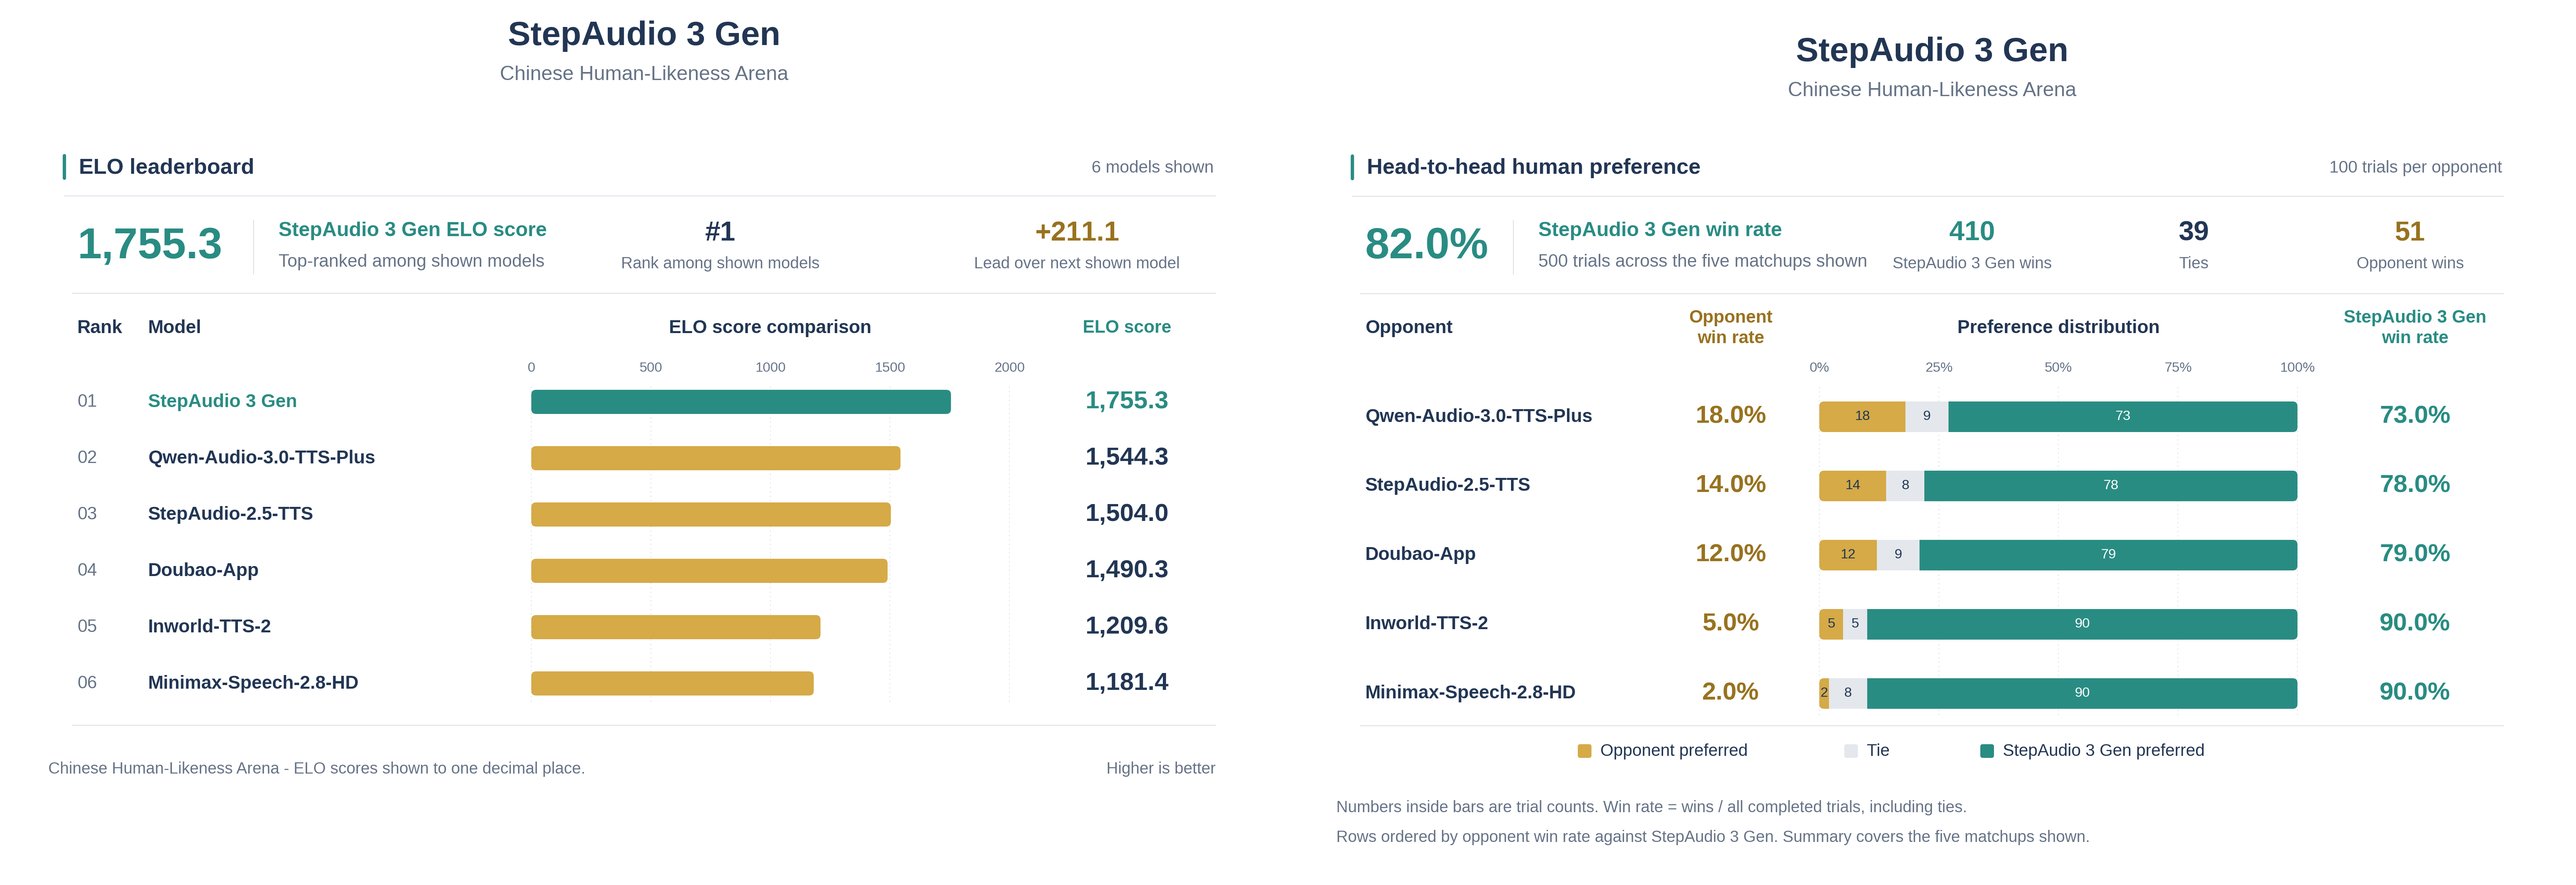
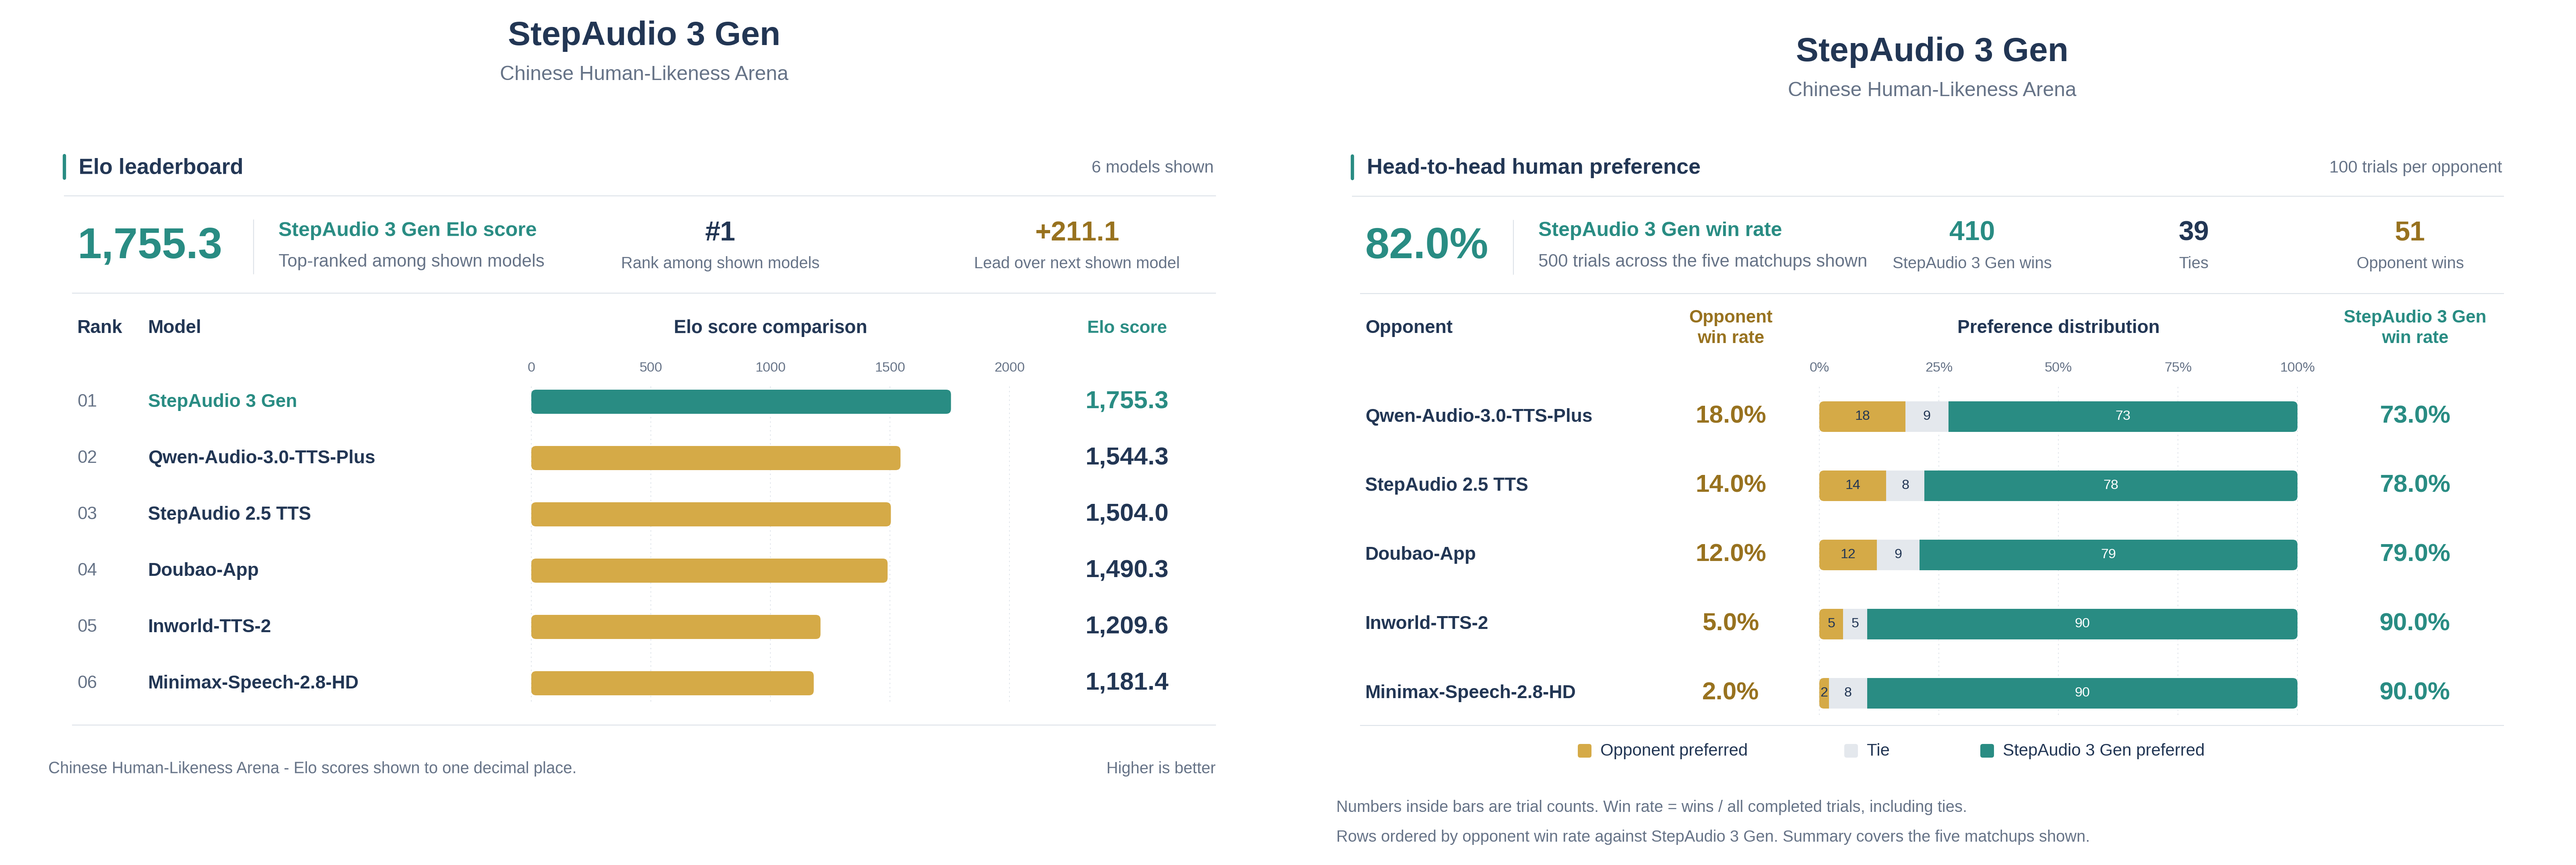
Replace benchmark figures and align reported results

diff --git a/step-audio-3-gen/index.html b/step-audio-3-gen/index.html
@@ -12,7 +12,7 @@
     <link rel="preload" href="./fonts/Roboto-Medium-brand.woff" as="font" type="font/woff" crossorigin />
     <link rel="preload" href="./fonts/MiSans-Light.woff2" as="font" type="font/woff2" crossorigin />
     <link rel="preload" href="./fonts/instrument-sans-latin-wght-normal.woff2" as="font" type="font/woff2" crossorigin />
-    <script src="./product-copy.js?v=20260911-vocal-copy-22"></script>
+    <script src="./product-copy.js?v=20260911-benchmark-23"></script>
   </head>
   <body class="product-page">
     <svg class="vibe-player-icons" width="0" height="0" aria-hidden="true"><defs>
@@ -1027,7 +1027,7 @@
           <header class="benchmark-heading">
             <h2 id="tts-elo-title" data-product-i18n="ttsEloTitle">评测表现</h2>
             <div class="benchmark-analysis">
-              <p data-product-i18n-html="ttsEloComparison">在盲测两两对比评估中，StepAudio 3 Gen 在 TTS 与 Voice Design 两项任务上均取得 SOTA 表现，分别以 1755.33 和 1668.5 的 Elo 分数排名第一，总体胜率达 82.0% 和 71.4%，展现出在语音真人感与音色设计能力上的一致领先优势。</p>
+              <p data-product-i18n-html="ttsEloComparison">在盲测两两对比评估中，StepAudio 3 Gen 在 TTS 与 Voice Design 两项任务上，分别以 1755.3 和 1668.5 的 Elo 分数位列图示参评模型第一，图示对阵的总体胜率分别为 82.0% 和 75.5%，展现出在语音真人感与音色设计方面的领先表现。</p>
             </div>
           </header>
 <div class="benchmark-paper-figures">
@@ -1035,13 +1035,13 @@
               <figcaption class="benchmark-paper-caption">
                 <h3 id="paper-tts-caption" data-product-i18n="bmkTts">Human-like TTS</h3>
               </figcaption>
-              <a href="./assets/tts-elo-chinese.png" target="_blank" rel="noopener" aria-labelledby="paper-tts-caption"><img src="./assets/tts-elo-chinese.png?v=20260910-combined-1" width="6400" height="2200" loading="lazy" decoding="async" alt="Chinese Human-Likeness Arena: StepAudio 3 Gen Elo 1755.3, ranked first among the six models shown, 211.1 points ahead of the next shown model. Head-to-head results across the five opponents shown: 410 wins, 39 ties and 51 losses over 500 trials, for an 82.0% win rate including ties in the denominator. StepAudio 3 Gen win rates: Qwen 73%, StepAudio 2.5 TTS 78%, Doubao 79%, Inworld 90%, MiniMax 90%." /></a>
+              <a href="./assets/tts-elo-chinese.png?v=20260911-benchmark-23" target="_blank" rel="noopener" aria-labelledby="paper-tts-caption"><img src="./assets/tts-elo-chinese.png?v=20260911-benchmark-23" width="6400" height="2151" loading="lazy" decoding="async" alt="Chinese Human-Likeness Arena: StepAudio 3 Gen Elo 1755.3, ranked first among the six models shown, 211.1 points ahead of the next shown model. Head-to-head results across the five opponents shown: 410 wins, 39 ties and 51 losses over 500 trials, for an 82.0% win rate including ties in the denominator. StepAudio 3 Gen win rates: Qwen 73%, StepAudio 2.5 TTS 78%, Doubao 79%, Inworld 90%, MiniMax 90%." /></a>
             </figure>
             <figure class="benchmark-paper-figure" id="evaluation">
               <figcaption class="benchmark-paper-caption">
                 <h3 id="paper-vd-caption" data-product-i18n="bmkVd">Voice Design</h3>
               </figcaption>
-              <a href="./assets/vd-arena.png" target="_blank" rel="noopener" aria-labelledby="paper-vd-caption"><img src="./assets/vd-arena.png?v=20260910-vd-arena-1" width="6400" height="2200" loading="lazy" decoding="async" alt="Voice Design Arena: StepAudio 3 Gen Elo 1668.5, ranked first among the six models shown; lead over the next shown model 56.3 points. Head-to-head results across five shown opponents: 175 wins, 11 ties and 59 losses in 245 trials, with 49 trials per opponent. Overall win rate 71.4%, counting ties in the denominator. StepAudio 3 Gen win rates: Breeze-TTS-2 55.1%, Qwen3-TTS-VD 65.3%, MOSS-Voice-Generator 71.4%, Ming-Omni-TTS 79.6%, VoiceSculptor 85.7%." /></a>
+              <a href="./assets/vd-arena.png?v=20260911-benchmark-23" target="_blank" rel="noopener" aria-labelledby="paper-vd-caption"><img src="./assets/vd-arena.png?v=20260911-benchmark-23" width="6400" height="1979" loading="lazy" decoding="async" alt="Voice Design Arena: StepAudio 3 Gen Elo 1668.5, ranked first among the five models shown; lead over the next shown model 97.0 points. Head-to-head results across four shown opponents: 148 wins, 9 ties and 39 losses in 196 trials, with 49 trials per opponent. Overall win rate 75.5%, counting ties in the denominator. StepAudio 3 Gen win rates: Qwen3-TTS-VD 65.3%, MOSS-VoiceGenerator 71.4%, Ming-omni-tts-0.5B 79.6%, VoiceSculptor 85.7%." /></a>
             </figure>
           </div>
         </div>

diff --git a/step-audio-3-gen/product-copy.js b/step-audio-3-gen/product-copy.js
@@ -42,7 +42,7 @@ const productCopy = Object.freeze({
     ttsReference: "音色",
 
     ttsEloTitle: "评测表现",
-    ttsEloComparison: "在盲测两两对比评估中，StepAudio 3 Gen 在 TTS 与 Voice Design 两项任务上均取得 SOTA 表现，分别以 1755.33 和 1668.5 的 Elo 分数排名第一，总体胜率达 82.0% 和 71.4%，展现出在语音真人感与音色设计能力上的一致领先优势。",
+    ttsEloComparison: "在盲测两两对比评估中，StepAudio 3 Gen 在 TTS 与 Voice Design 两项任务上，分别以 1755.3 和 1668.5 的 Elo 分数位列图示参评模型第一，图示对阵的总体胜率分别为 82.0% 和 75.5%，展现出在语音真人感与音色设计方面的领先表现。",
     ttsEloZh: "中文真人感",
     ttsEloModel: "模型",
     ttsEloHigher: "越高越好",
@@ -146,7 +146,7 @@ const productCopy = Object.freeze({
     ttsReference: "Voice",
 
     ttsEloTitle: "Benchmark results",
-    ttsEloComparison: "In blind pairwise evaluations, StepAudio 3 Gen achieves state-of-the-art performance in both TTS and Voice Design, ranking first with Elo scores of 1755.33 and 1668.5 and overall win rates of 82.0% and 71.4%, respectively, demonstrating consistent leadership in speech human-likeness and voice design.",
+    ttsEloComparison: "In blind pairwise evaluations, StepAudio 3 Gen ranks first among the models shown in both TTS and Voice Design, with Elo scores of 1755.3 and 1668.5 and win rates of 82.0% and 75.5% across the respective matchups shown, demonstrating strong performance in speech human-likeness and voice design.",
     ttsEloZh: "Chinese human-likeness",
     ttsEloModel: "Model",
     ttsEloHigher: "Higher is better",
